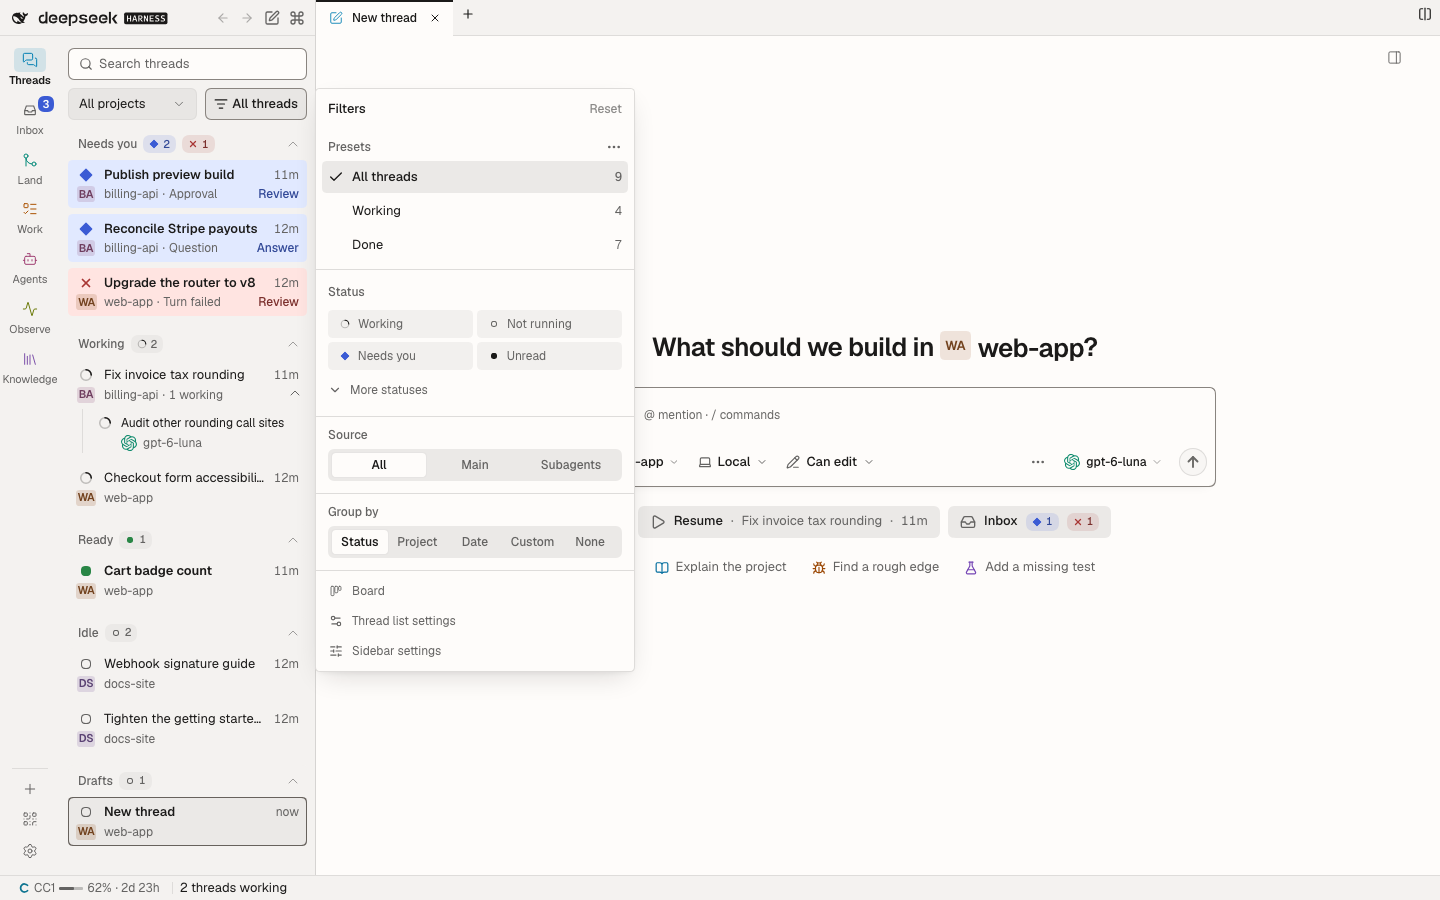
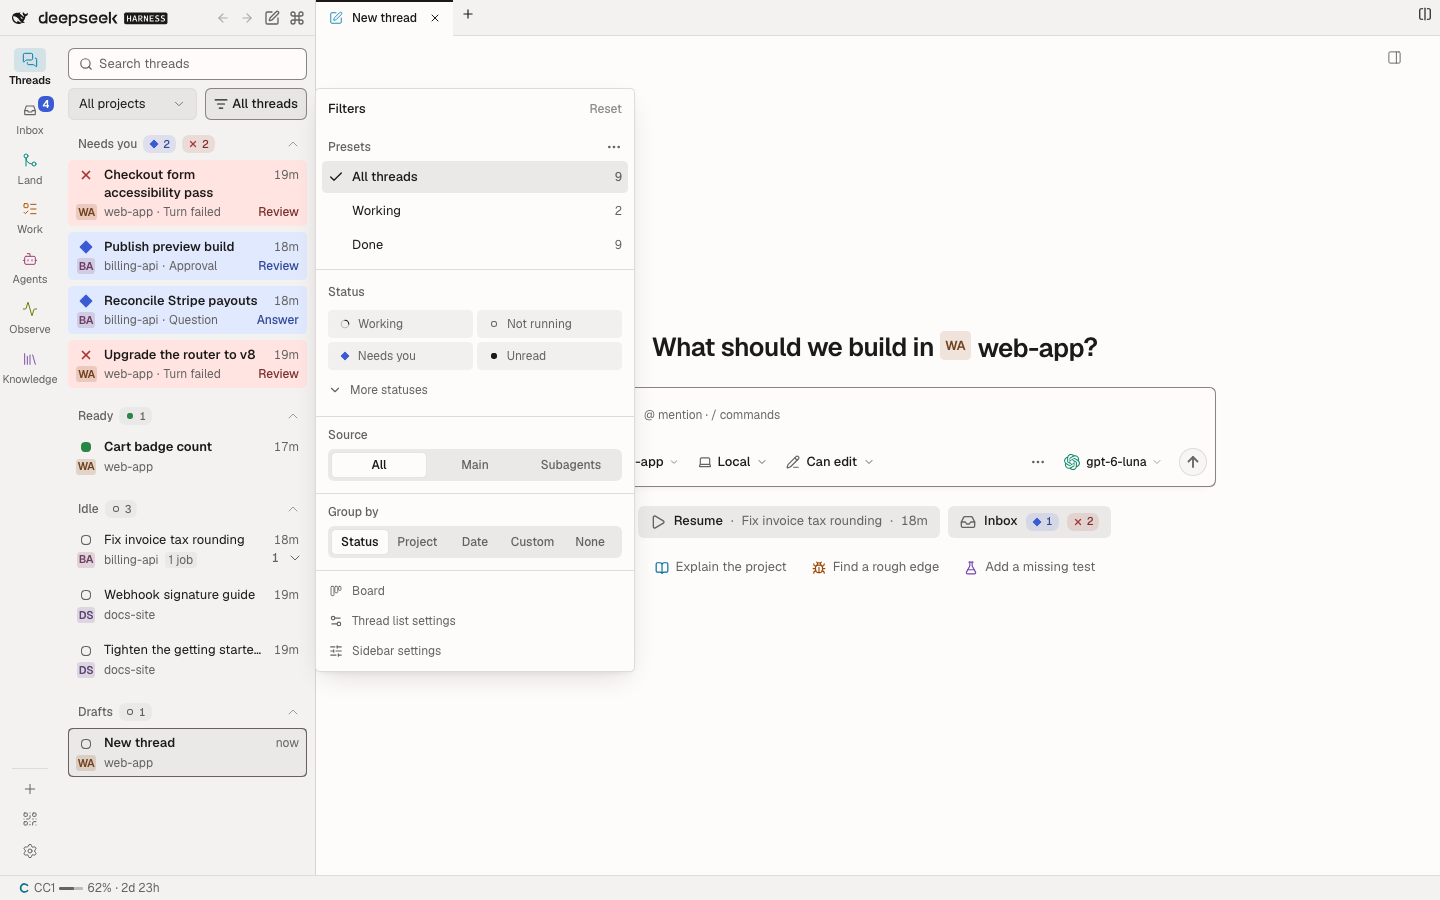
docs(thread-sidebar): describe the round-33 Filters panel and refresh its shots
The README and the two Filter screenshots now show round 33: the count badge filled with the ink at 20% and the trigger's full name as its tooltip, the panel ending above the status bar, More keeping its toggle in view, the fold hint naming what holds it open, Save in the ink on a mouse, one content inset for the ⋯ sheet, and Mark N shown as read / unread last in the presets' menu.

diff --git a/plugins/@dshfiles/thread-sidebar/README.md b/plugins/@dshfiles/thread-sidebar/README.md
@@ -541,7 +541,7 @@ and keeps the rest for Back and Forward.
 
 ![An acknowledged recent idle thread remains in the date-grouped Done view.](docs/screenshots/thread-list-views-done.png)
 
-**The Filters panel** (round nine, refined in rounds 28 to 32). The Filter
+**The Filters panel** (round nine, refined in rounds 28 to 33). The Filter
 button opens one panel beside the list, not a menu of submenus: every value
 shows where it sits and applies at once, so the rows it filters stay in view,
 and a polite live region says each change once with the count it leads to
@@ -549,9 +549,10 @@ and a polite live region says each change once with the count it leads to
 It opens on the preset in force; closed, the button names the preset in full,
 and while filters are on a desktop draws their count in the funnel's place, a
 16px badge before the name (`2 All threads`, named "Filter: All threads, 2
-filters on"); a phone reads `Filters 2`. On a desktop the panel keeps its top under
-the button, no taller than the room below it, its foot fading while more waits
-below. The panel scrolls under its sticky header, **Filters … Reset**, whose
+filters on", which is also its tooltip); a phone reads `Filters 2`, the word in
+the ink. Both badges fill with the ink at 20%, so they read as a shape on the
+button. On a desktop the panel keeps its top under the button and ends 8px
+above the status bar, its foot fading while more waits below. The panel scrolls under its sticky header, **Filters … Reset**, whose
 rule shows only while it is scrolled, and keeps a focused control clear of the
 header and the fading foot; on a phone it is
 the kit's bottom sheet (85dvh, the popover fill) with **Reset · Filters · Done**
@@ -561,9 +562,9 @@ presets (each ending on one 20px count column, the count of its rows, empty at
 width reserved; no status on means any, and **Clear** sits in the heading;
 **More statuses**, right under the first row, is a
 disclosure for Thread state and Set aside, one labelled group each, that
-scrolls them into view and reads **Fewer statuses** while open; while one of
-those is on it stays open, with "Clear the statuses below to fold" on its own
-line under it), and **Source**, under its own hairline, as a segmented control (All /
+scrolls them into view without moving the toggle out of sight and reads
+**Fewer statuses** while open; while one of those is on it stays open, with a
+line under it naming them: "Archived is on. Turn it off to fold."), and **Source**, under its own hairline, as a segmented control (All /
 Main / Subagents). **Reset filters** covers those: back to All threads with no
 filter on, the grouping kept. Under its own hairline, **Group by** (Status / Project / Date / Custom /
 None, a segmented control; Custom is named "Custom, arrange manually"), and the foot Board, Thread list settings and
@@ -576,10 +577,11 @@ status or source filter afterwards never rewrites the preset: the change is a
 Host-synced `threadViews.draft`, the button reads `Filter: Needs you (edited)`,
 and the preset stays checked as `Needs you · edited`, counting what the list
 draws now, with **Discard changes** and **Save changes to “Needs you”**: two
-icons before its count on a mouse, and on a phone the words Discard (quiet, in
+icons before its count on a mouse (Save in the ink, Discard secondary), and on a phone the words Discard (quiet, in
 the secondary ink) and Save (in the ink at 600) on the row's own second line, so its name, never "edited", is what truncates. The
 built-in All threads offers **Save as new preset…** instead, and its ⋯ menu (a
-fixed 256px, inside the panel) shows no Rename, Save changes or Delete, only the
+fixed 256px, inside the panel; on a phone a sheet sharing the Filters sheet's
+20px content edge) shows no Rename, Save changes or Delete, only the
 caption "Built in. Save changes as a new preset."
 Pressing the edited preset again does nothing, and changing the filters back
 drops the draft. **Save as new preset…** (first in the presets' ⋯ menu) names a
@@ -589,8 +591,10 @@ grouping, filters and the current project scope (`projectFilter`: an id, `''` fo
 Unassigned, `null` for All projects), and applies it. **Preset options** (the ⋯
 beside the Presets heading) holds
 **Rename…**, **Save changes to “‹preset›”**, **Delete…** (a confirmation, then an
-Undo notice that puts the preset back where it was), Mark all read / unread and
-**Manage presets…** (the view manager, where a built-in can be hidden). A built-in
+Undo notice that puts the preset back where it was), **Manage presets…** (the
+view manager, where a built-in can be hidden) and, last after a separator,
+**Mark 5 shown as read** / **unread** for the rows the list draws (unread only
+while one of them is read). A built-in
 names no project scope, so applying it leaves the project picker alone. ⌘K lists
 one **Filter: ‹preset›** row per preset; in the thread list `[` and `]` step to the
 previous and next preset, wrapping (`1`–`9` answer in the peek and `G` starts the
